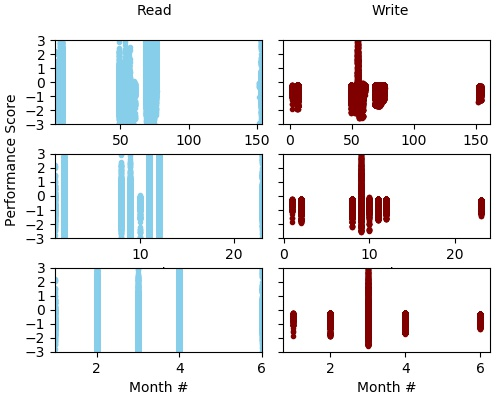
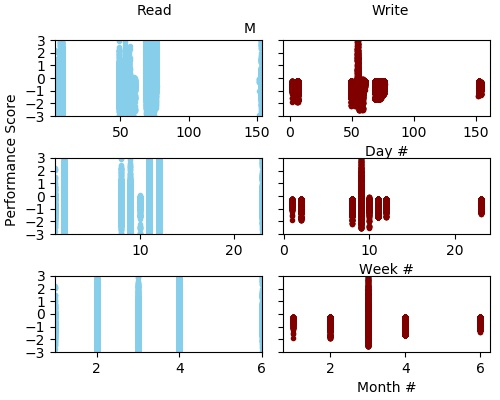
adding subtitles

diff --git a/example/simple_user.py b/example/simple_user.py
@@ -194,7 +194,6 @@ for app in top_apps:
     x_axes = ['Day','Week','Month']
     for n in range(len(x_axes)):
         x_axis = x_axes[n]
-        print(x_axis)
         # First, plot read
         op = 'Read'
         df = zscored_df
@@ -202,7 +201,6 @@ for app in top_apps:
         pos = np.flatnonzero(mask)
         df = df.iloc[pos]
         x = df.loc[:,x_axis]
-        print(x[:5])
         y = df.loc[:,'Performance Z-Score']
         axes[n][0].scatter(x, y, marker='.', color='skyblue',label=op)
         #m, b = np.polyfit(x, y, 1)
@@ -215,7 +213,7 @@ for app in top_apps:
         #axes[n][0].set_title(op)
         axes[n][0].set_xlabel(" ")
         axes[n][0].margins(0)
-        axes[n][0].set_xlabel("%s #"%x_axis)
+        #axes[n][0].set_xlabel("%s #"%x_axis)
         #axes[n][0].set_xlim([np.min(x), np.max(x)])
         # Now, write
         op = 'Write'
@@ -235,8 +233,8 @@ for app in top_apps:
         #axes[n][1].set_xlim([np.min(x), np.max(x)])
         #axes[n][1].set_title(op)
         axes[n][1].set_xlabel("%s #"%x_axis)
-    fig.subplots_adjust(left=0.11, bottom=0.12, right=.98, top=.90, wspace=0.1, hspace=0.35)
-    #fig.text(0.5, 0.01, x_axis, ha='center', va='bottom')
+    fig.subplots_adjust(left=0.11, bottom=0.12, right=.98, top=.90, wspace=0.1, hspace=0.55)
+    fig.text(0.5, 0.91, x_axis[0], ha='center', va='bottom')
     fig.text(0.01, 0.6, 'Performance Score', ha='left', va='center', rotation=90)
     fig.text(0.31, 0.99, 'Read', ha='center', va='top')
     fig.text(0.78, 0.99, 'Write', ha='center', va='top')
